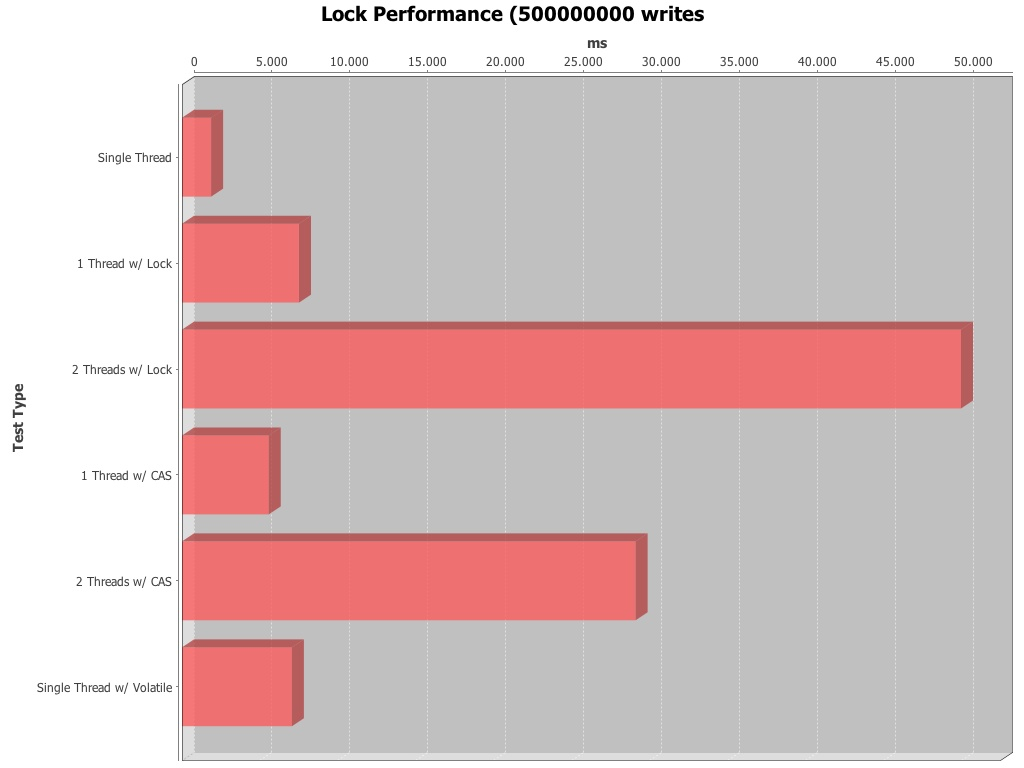
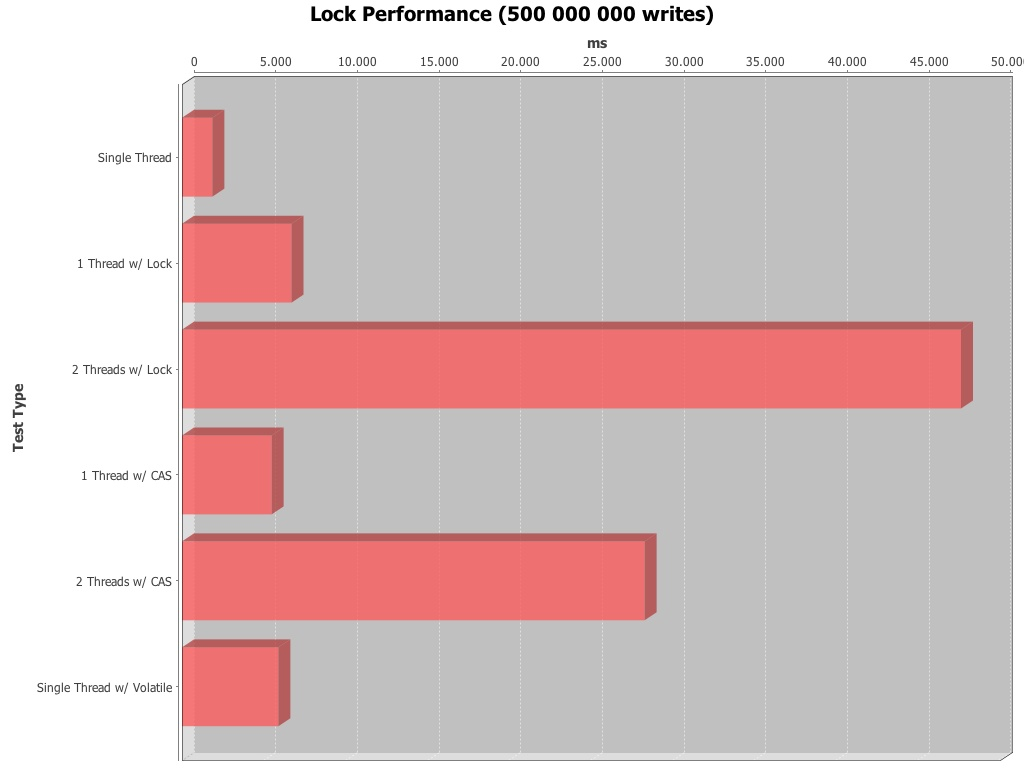
Updated numbers and README

diff --git a/src/main/java/de/codepitbull/lockperformance/PerformanceMain.java b/src/main/java/de/codepitbull/lockperformance/PerformanceMain.java
@@ -17,13 +17,20 @@ public class PerformanceMain {
         Thread.sleep(8000);
         System.out.println("Starting");
         DefaultCategoryDataset dataset = new DefaultCategoryDataset();
+        System.out.println("Collecting: Single Thread");
         dataset.setValue(new SingleThread().run(), "ms", "Single Thread");
+        System.out.println("Collecting: 1 Thread w/ Lock ");
         dataset.setValue(new SingleThreadWithLock().run(), "ms", "1 Thread w/ Lock");
+        System.out.println("Collecting: 2 Threads w/ Lock");
         dataset.setValue(new TwoThreadsWithLock().run(), "ms", "2 Threads w/ Lock");
+        System.out.println("Collecting: 1 Thread w/ CAS");
         dataset.setValue(new SingleThreadWithCAS().run(), "ms", "1 Thread w/ CAS");
+        System.out.println("Collecting: 2 Threads w/ CAS");
         dataset.setValue(new TwoThreadsWithCAS().run(), "ms", "2 Threads w/ CAS");
+        System.out.println("Collecting: Single Thread w/ Volatile");
         dataset.setValue(new SingleThreadWithVolatile().run(), "ms", "Single Thread w/ Volatile");
-        JFreeChart chart = ChartFactory.createBarChart3D("Lock Performance (500000000 writes",
+        System.out.println("Painting picture");
+        JFreeChart chart = ChartFactory.createBarChart3D("Lock Performance (500 000 000 writes)",
                 "Test Type", "ms", dataset, PlotOrientation.HORIZONTAL,
                 false, true, false);
         ChartUtilities.saveChartAsJPEG(new File("results.jpg"), chart, 1024, 768);

diff --git a/README.md b/README.md
@@ -4,6 +4,12 @@ Project to reproduce the numbers presented in the Disruptor paper.
 
 See page 2 of the [Paper][]
 
+To get the beautiful picture below:
+
+ * clone the repo 
+ * run __./gradlew run__ and wait a while.
+ * profit
+
 ![Results][]
 
 
